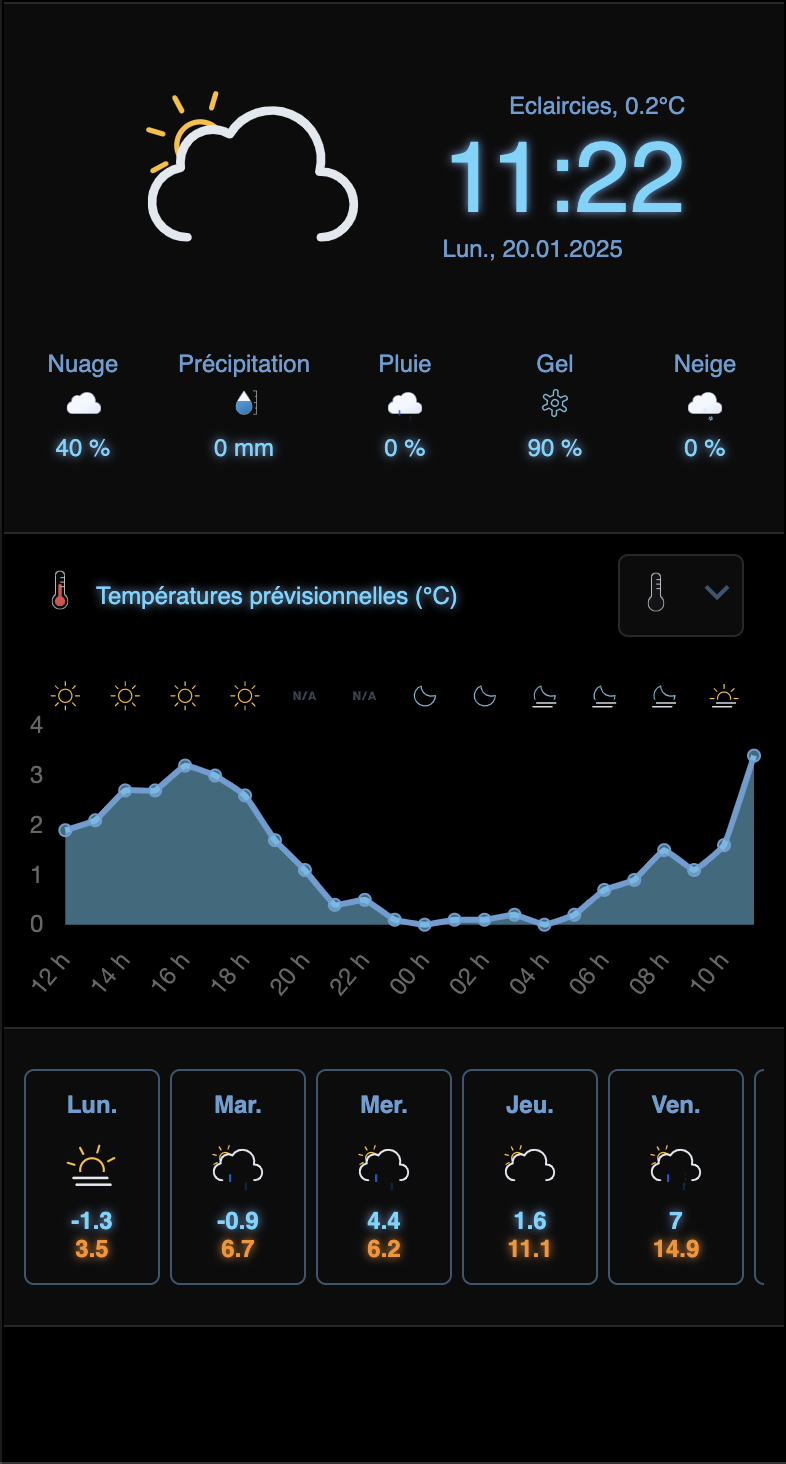
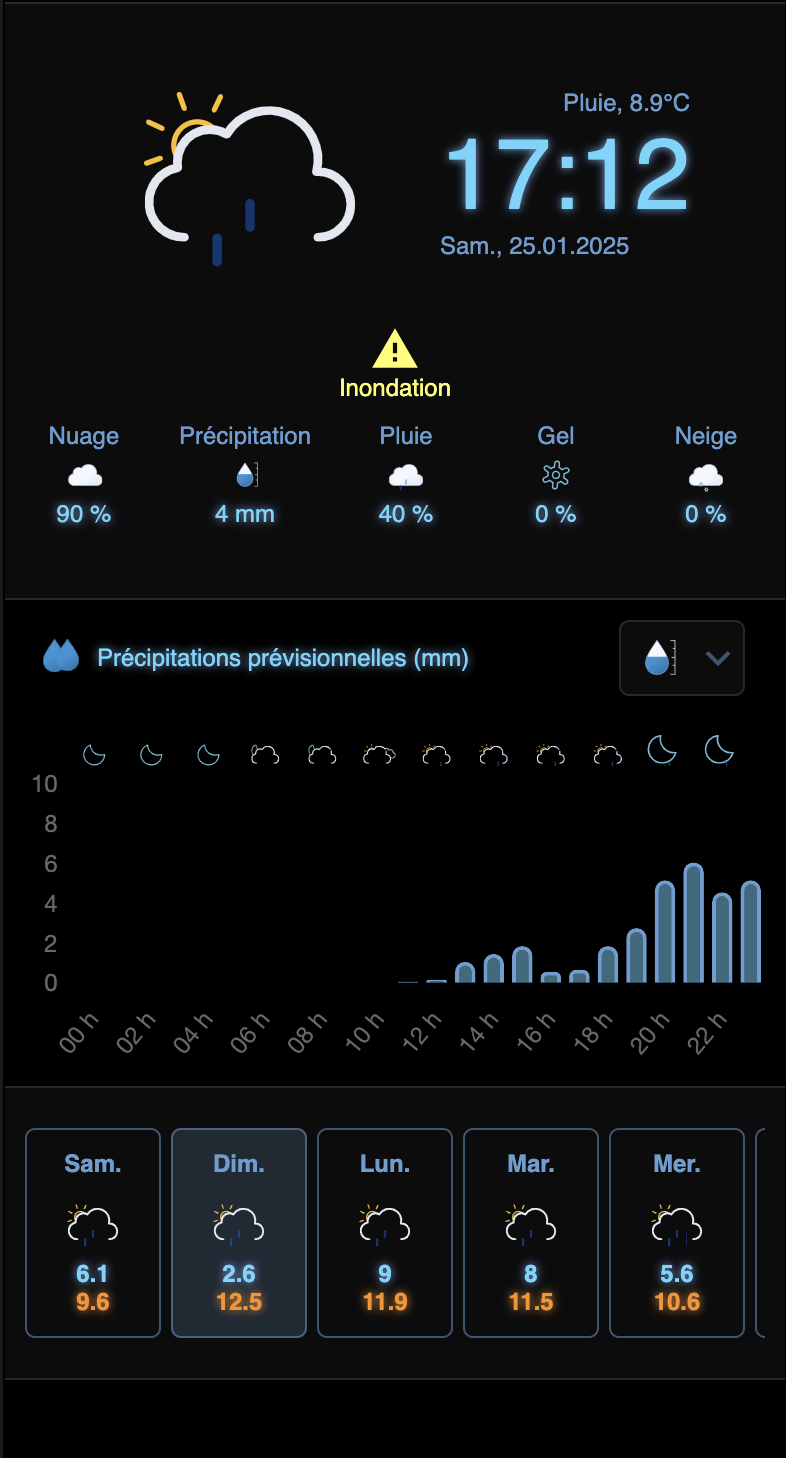
https://github.com/adrien-parasote/ha-sci-fi/issues/14

diff --git a/src/cards/weather/card.js b/src/cards/weather/card.js
@@ -32,6 +32,7 @@ export class SciFiWeather extends LitElement {
   _chartDataKind = 'temperature';
   _daily_subscribed;
   _hourly_subscribed;
+  _day_selected = 0;
 
   static get properties() {
     return {
@@ -58,14 +59,8 @@ export class SciFiWeather extends LitElement {
   __validateConfig(config) {
     if (!config.weather_entity)
       throw new Error('You need to define a weather entity');
-    if (!config.weather_hourly_forecast_limit)
-      config.weather_hourly_forecast_limit = 24; // max 24
-    if (config.weather_hourly_forecast_limit > 24)
-      config.weather_hourly_forecast_limit = 24; // max 24
-    if (config.weather_hourly_forecast_limit > 72)
-      throw new Error('Hourly forecast is limited to 72h max');
     if (!config.weather_daily_forecast_limit)
-      config.weather_daily_forecast_limit = 15; // max 15
+      config.weather_daily_forecast_limit = 10; // max 15
     if (config.weather_daily_forecast_limit > 15)
       throw new Error('Daily forecast is limited to 15 days max');
     return config;
@@ -226,8 +221,24 @@ export class SciFiWeather extends LitElement {
     return html` <div class="content">
       ${this._weather_daily_forecast
         .slice(0, this._config.weather_daily_forecast_limit)
-        .map((daily_forecast) => html`${daily_forecast.render(true)}`)}
+        .map((daily_forecast, idx) => {
+          return html` <div
+            class="weather ${this._day_selected == idx ? 'selected' : ''}"
+            @click="${(e) => this.__selectDay(idx)}"
+          >
+            ${daily_forecast.render(true)}
+          </div>`;
+        })}
     </div>`;
+  }
+
+  __selectDay(idx) {
+    if (idx != this._day_selected) {
+      this._day_selected = idx;
+      this._chart.data = this.__getChartDatasets();
+      this._chart.update();
+      this.requestUpdate();
+    }
   }
 
   __renderChart() {
@@ -356,7 +367,7 @@ export class SciFiWeather extends LitElement {
   }
 
   __getChartDatasets() {
-    let datasets = [
+    const datasets = [
       {
         data: [],
         weather: [],
@@ -371,8 +382,9 @@ export class SciFiWeather extends LitElement {
       datasets[0].borderWidth = 2;
       datasets[0].borderRadius = 5;
     }
+    const forecastDate = this._weather_daily_forecast[this._day_selected].date;
     this._weather_hourly_forecast
-      .slice(0, this._config.weather_hourly_forecast_limit)
+      .filter((hour) => hour.isPartOfDay(forecastDate))
       .map((hourly) => {
         datasets[0].data.push({
           x: hourly.hours,
@@ -418,7 +430,6 @@ export class SciFiWeather extends LitElement {
   static getStubConfig() {
     return {
       weather_entity: null,
-      weather_hourly_forecast_limit: 24,
       weather_daily_forecast_limit: 10,
       alert: {},
     };

diff --git a/src/helpers/entities/weather.js b/src/helpers/entities/weather.js
@@ -163,20 +163,28 @@ export class DailyForecast {
     this.temperature_unit = temperature_unit;
   }
 
+  get date() {
+    return new Date(
+      this.datetime.getFullYear(),
+      this.datetime.getMonth(),
+      this.datetime.getDate(),
+      0,
+      0,
+      0,
+      0
+    );
+  }
+
   getWeatherIcon(day = true) {
     return getWeatherIcon([this.condition, day ? 'day' : 'night'].join('-'));
   }
 
   render(day = true) {
     return html`
-      <div class="weather">
-        <div class="label">${this.__getDay()}</div>
-        <div class="state">${this.getWeatherIcon(day)}</div>
-        <div class="temp">${this.templow}${this.temperature_unit}</div>
-        <div class="temp hight">
-          ${this.temperature}${this.temperature_unit}
-        </div>
-      </div>
+      <div class="label">${this.__getDay()}</div>
+      <div class="state">${this.getWeatherIcon(day)}</div>
+      <div class="temp">${this.templow}${this.temperature_unit}</div>
+      <div class="temp hight">${this.temperature}${this.temperature_unit}</div>
     `;
   }
 
@@ -265,5 +273,13 @@ export class HourlyForecast {
 
   __getDay() {
     return WEEK_DAYS[this.datetime.getDay()].short;
+  }
+
+  isPartOfDay(date) {
+    return (
+      this.datetime.getFullYear() == date.getFullYear() &&
+      this.datetime.getMonth() == date.getMonth() &&
+      this.datetime.getDate() == date.getDate()
+    );
   }
 }

diff --git a/src/cards/weather/editor.js b/src/cards/weather/editor.js
@@ -57,16 +57,6 @@ export class SciFiWeatherEditor extends SciFiBaseEditor {
         max="15"
         @input-update=${this.__update}
       ></sci-fi-slider>
-      <sci-fi-slider
-        label="Hourly forecast number(required)"
-        icon="mdi:counter"
-        element-id="weather_hourly_forecast_limit"
-        kind="weather_hourly_forecast_limit"
-        value="${this._config.weather_hourly_forecast_limit}"
-        min="1"
-        max="24"
-        @input-update=${this.__update}
-      ></sci-fi-slider>
     </section>`;
   }
 

diff --git a/src/cards/weather/style.js b/src/cards/weather/style.js
@@ -240,6 +240,10 @@ export default css`
     border: var(--border-width) solid var(--secondary-light-alpha-color);
     border-radius: var(--border-radius);
     padding: 10px 15px;
+    cursor: pointer;
+  }
+  .days-forecast .content .weather.selected {
+    background-color: var(--secondary-light-light-alpha-color);
   }
   .days-forecast .content .weather .state .svg-container {
     justify-self: center;

diff --git a/tests/config/config_weather.js b/tests/config/config_weather.js
@@ -1,7 +1,6 @@
 export default {
   weather_entity: 'weather.la_chapelle_sur_erdre',
-  weather_hourly_forecast_limit: 24,
-  weather_daily_forecast_limit: 15,
+  weather_daily_forecast_limit: 10,
   alert: {
     entity_id: 'sensor.44_weather_alert',
     state_green: 'Vert',

diff --git a/README.md b/README.md
@@ -403,7 +403,7 @@ Card is composed of:
     - temperatures
     - precipitations
     - wind speed
-- A next day weather part
+- A next day weather part used to select chart data day to display
 
 ### Configuration
 
@@ -426,8 +426,7 @@ weather_entity: weather_home  # replace with your weather providers's entity id
 ```yaml
 type: custom:sci-fi-weather
 weather_entity: weather_home # replace with your weather providers's entity id
-weather_hourly_forecast_limit: 24
-weather_daily_forecast_limit: 15
+weather_daily_forecast_limit: 10
 alert:
   state_green: green # replace with your alert green state
   state_yellow: yellow # replace with your alert yellow state
@@ -442,16 +441,14 @@ alert:
 | - | - | - | - | - |
 | type | string | **Required** | Card definition | `custom:sci-fi-weather`| 
 | weather_entity | String | **Required** | Your provider weather entity id  |  |
-| weather_hourly_forecast_limit | Integer | **Optionnal** | Forecasted weather hours between 0 and 24  | 24 |
-| weather_daily_forecast_limit | Integer | **Optionnal** | Forecasted weather days between 0 and 15   | 15 |
+| weather_daily_forecast_limit | Integer | **Optionnal** | Forecasted weather days between 0 and 15   | 10 |
 | `alert` | Object | **Optional** | Alert sensor config |  | 
 
 **Example**
 ```yaml
 type: custom:sci-fi-weather
 weather_entity: weather_home # replace with your weather providers's entity id
-weather_hourly_forecast_limit: 24
-weather_daily_forecast_limit: 15
+weather_daily_forecast_limit: 10
 alert:
    ... # see alert configuration bellow
 ```
